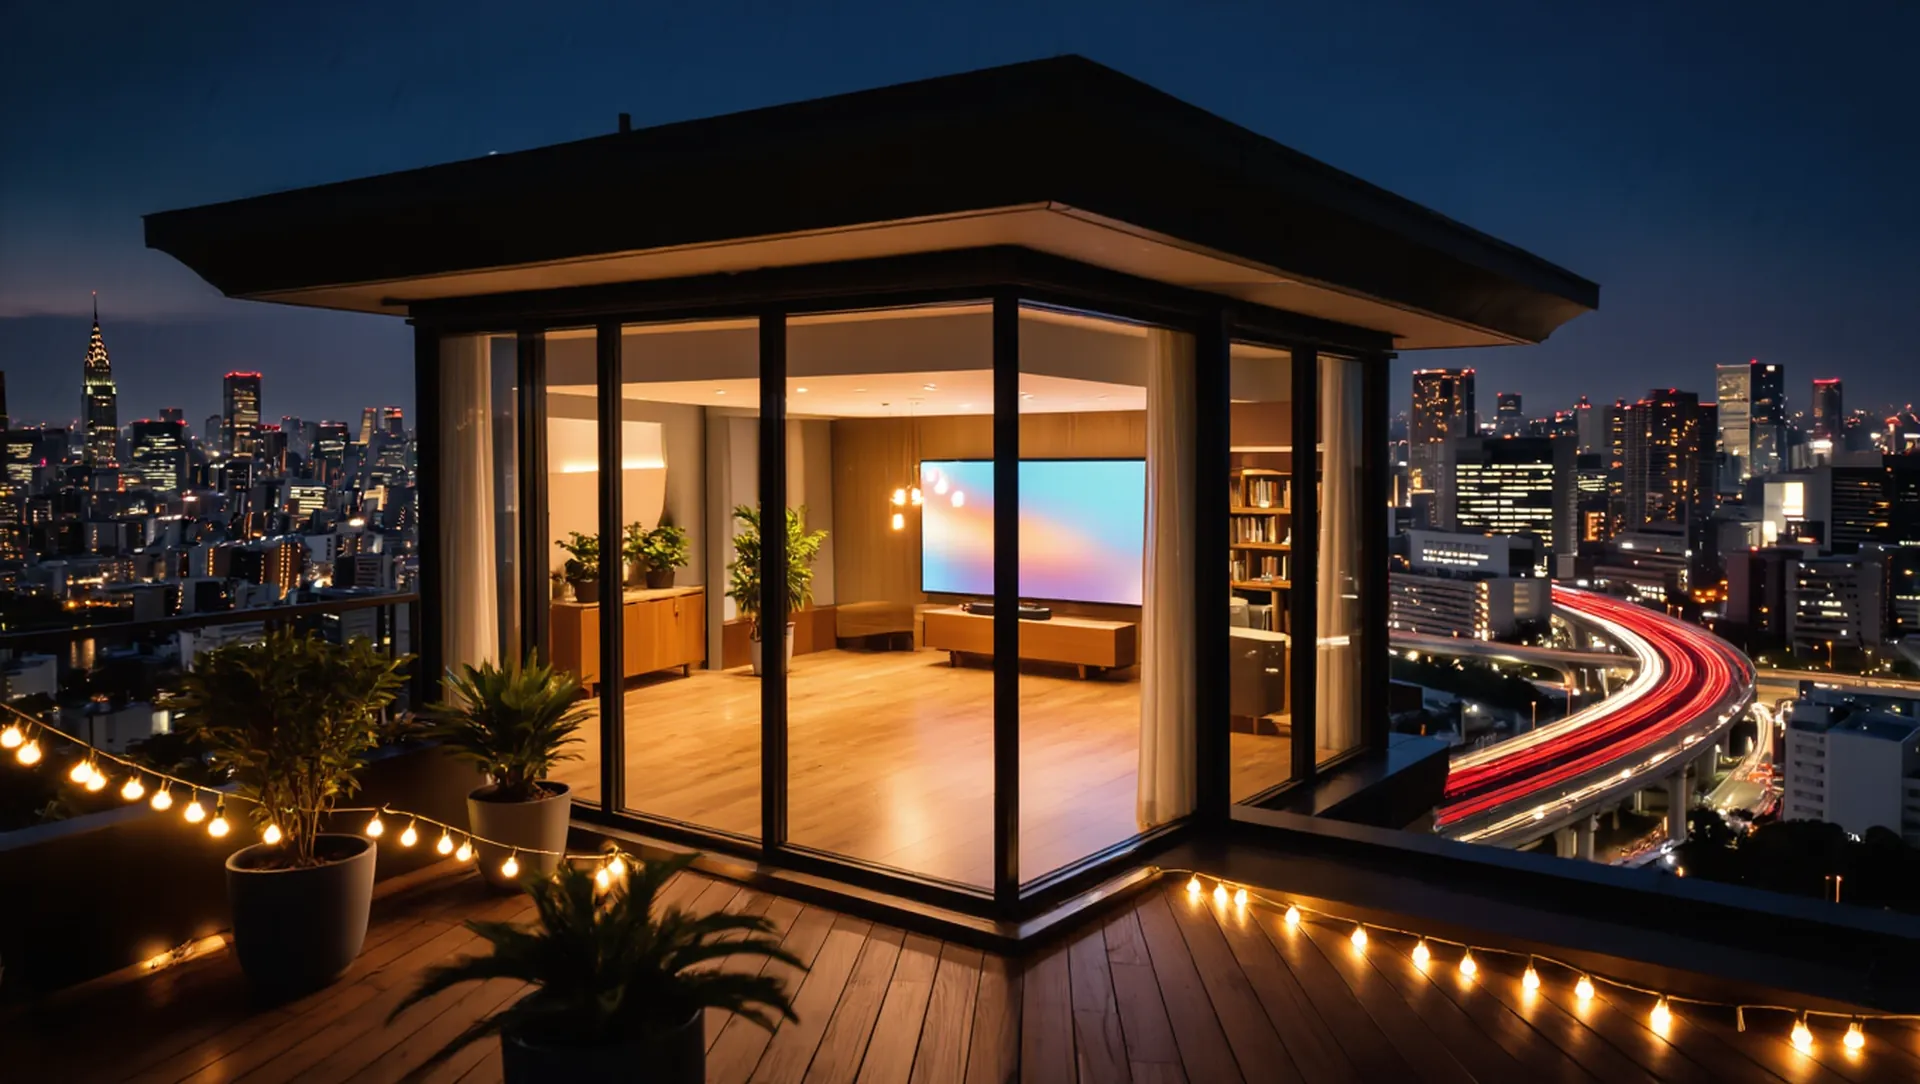
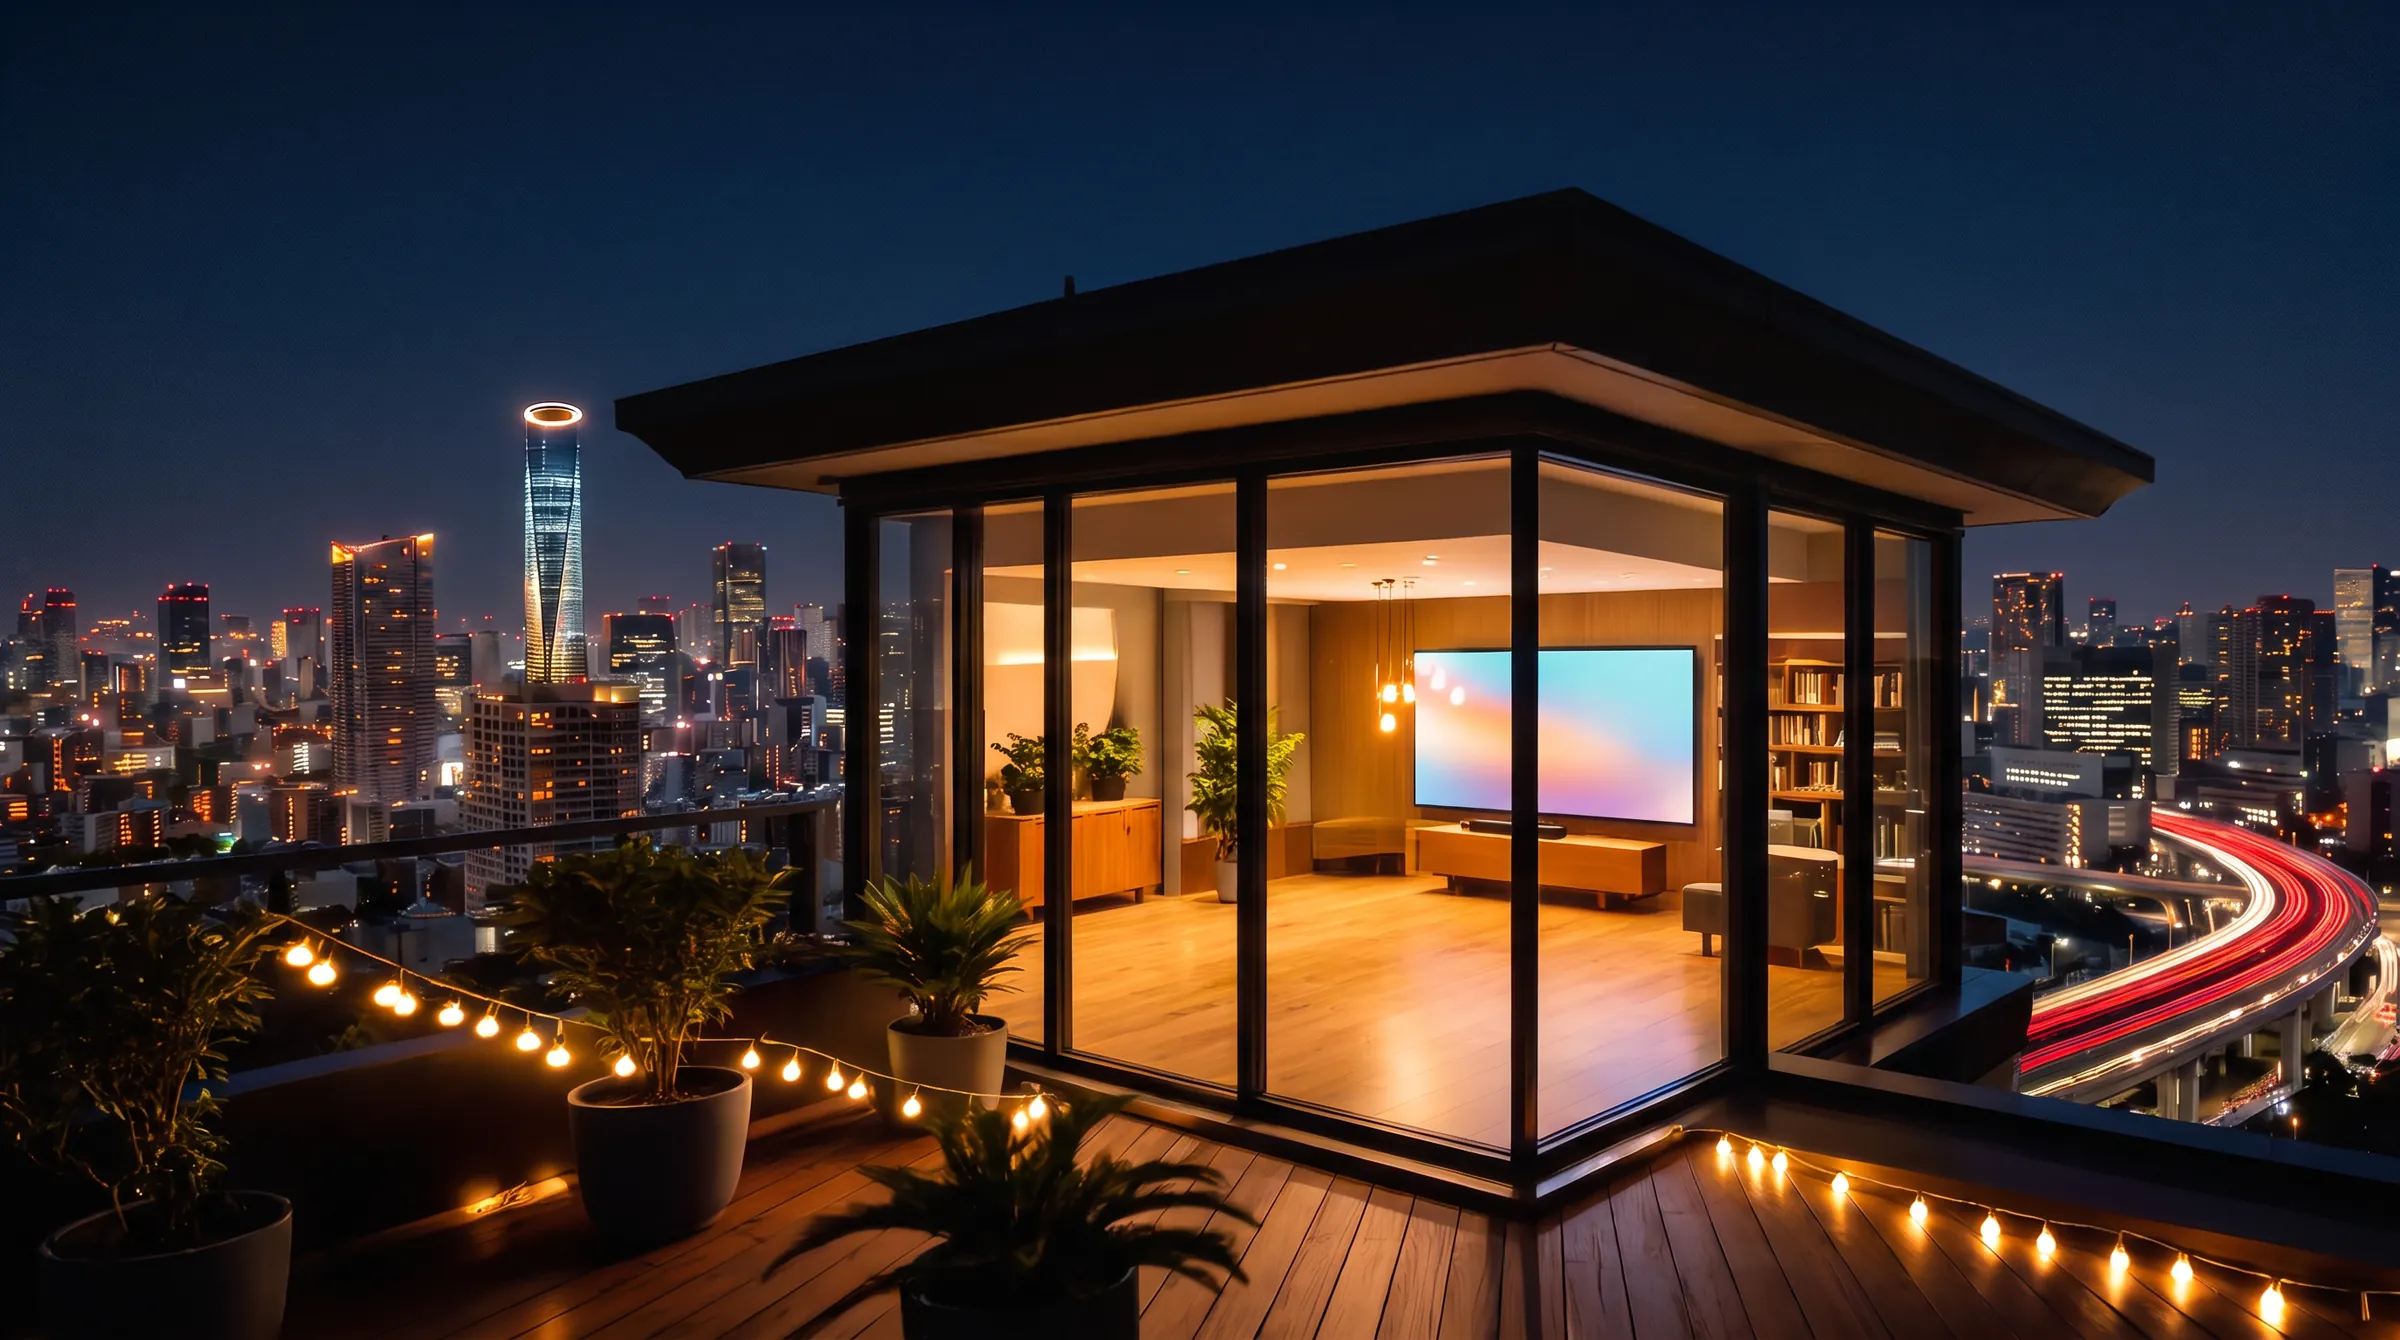
Final stills, depth maps, first two film clips; preview build
Claude-Session: https://claude.ai/code/session_014eSGUeKCTSbcgTyyrj1tNi

diff --git a/components/Nav.tsx b/components/Nav.tsx
@@ -8,7 +8,7 @@
 import { AnimatePresence, motion, useReducedMotion } from "motion/react";
 import { useEffect, useId, useRef, useState } from "react";
 import Link from "next/link";
-import { content } from "@/lib/content";
+import { asset, content, href } from "@/lib/content";
 import { BookCall } from "./BookCall";
 
 const SPRING = { type: "spring", stiffness: 420, damping: 34, mass: 0.8 } as const;
@@ -62,16 +62,16 @@ export function Nav() {
           }}
         >
           <span aria-hidden className="pointer-events-none absolute inset-x-10 top-0 h-px bg-gradient-to-r from-transparent via-white/30 to-transparent" />
-          <Link href="/" aria-label="Studio Innové, home" className="flex items-center rounded-full py-1 outline-none focus-visible:ring-2 focus-visible:ring-amber">
+          <Link href={href("/")} aria-label="Studio Innové, home" className="flex items-center rounded-full py-1 outline-none focus-visible:ring-2 focus-visible:ring-amber">
             {/* eslint-disable-next-line @next/next/no-img-element */}
-            <img src="/brand/wordmark.png" alt="Studio Innové" width={67} height={28} className="h-7 w-auto select-none" draggable={false} />
+            <img src={asset("/brand/wordmark.png")} alt="Studio Innové" width={67} height={28} className="h-7 w-auto select-none" draggable={false} />
           </Link>
 
           <ul className="hidden items-center gap-0.5 md:flex" onPointerLeave={() => setHovered(null)}>
             {links.map((l) => (
               <li key={l.href}>
                 <a
-                  href={l.href}
+                  href={href(l.href)}
                   onPointerEnter={(e) => e.pointerType === "mouse" && setHovered(l.href)}
                   onFocus={() => setHovered(l.href)}
                   onBlur={() => setHovered(null)}
@@ -119,7 +119,7 @@ export function Nav() {
               <ul className="flex flex-col">
                 {links.map((l) => (
                   <li key={l.href}>
-                    <a href={l.href} onClick={() => setOpen(false)} className="block rounded-2xl px-4 py-3.5 text-[17px] font-medium text-paper/90 active:bg-white/10">
+                    <a href={href(l.href)} onClick={() => setOpen(false)} className="block rounded-2xl px-4 py-3.5 text-[17px] font-medium text-paper/90 active:bg-white/10">
                       {l.label}
                     </a>
                   </li>

diff --git a/components/film/FilmStage.tsx b/components/film/FilmStage.tsx
@@ -2,7 +2,7 @@
 
 import Lenis from "lenis";
 import { useEffect, useRef, useState } from "react";
-import { content } from "@/lib/content";
+import { asset, content } from "@/lib/content";
 import { Soundscape } from "@/lib/sound";
 import { BookCall } from "../BookCall";
 import { GlassCard } from "../GlassCard";
@@ -175,7 +175,7 @@ export function FilmStage() {
 
     const loadedRef = { current: false };
 
-    fetch("/film/manifest.json")
+    fetch(asset("/film/manifest.json"))
       .then((r) => r.json())
       .then(async (m: Manifest) => {
         if (!alive) return;
@@ -247,10 +247,10 @@ export function FilmStage() {
       <div ref={stageRef} className="sticky top-0 h-svh w-full overflow-hidden bg-ink">
         {/* First paint: the golden-hour still, before any script runs */}
         <picture>
-          <source media="(max-width: 899px)" srcSet="/film/stills/s1-m.webp" />
+          <source media="(max-width: 899px)" srcSet={asset("/film/stills/s1-m.webp")} />
           {/* eslint-disable-next-line @next/next/no-img-element */}
           <img
-            src="/film/stills/s1-d.webp"
+            src={asset("/film/stills/s1-d.webp")}
             alt="A glass penthouse studio above a city at golden hour"
             fetchPriority="high"
             className="absolute inset-0 h-full w-full object-cover object-[60%_50%]"
@@ -400,7 +400,7 @@ export function FilmStage() {
               <circle cx="50" cy="50" r="46" fill="none" strokeWidth="1.5" pathLength={100} strokeDasharray="100" strokeDashoffset={100 - progress * 100} strokeLinecap="round" className="ring-fill" />
             </svg>
             {/* eslint-disable-next-line @next/next/no-img-element */}
-            <img src="/brand/wordmark.png" alt="" width={62} height={26} className="h-[26px] w-auto opacity-90" />
+            <img src={asset("/brand/wordmark.png")} alt="" width={62} height={26} className="h-[26px] w-auto opacity-90" />
           </div>
           <p className="mt-6 text-[11px] uppercase tracking-[0.3em] text-paper/45 tabular-nums">{Math.round(progress * 100)}%</p>
         </div>

diff --git a/components/Footer.tsx b/components/Footer.tsx
@@ -2,7 +2,7 @@
 
 import Link from "next/link";
 import { useRef } from "react";
-import { content } from "@/lib/content";
+import { content, href } from "@/lib/content";
 import { BookCall } from "./BookCall";
 
 /** Closing footer: a slow beam of light and a cursor glow pass behind a giant wordmark. */
@@ -33,10 +33,10 @@ export function Footer() {
           <p className="eyebrow mb-4">Studio</p>
           <ul className="space-y-2.5 text-[15px] text-paper/75">
             {nav.links.map((l) => (
-              <li key={l.href}><a href={l.href} className="transition-colors hover:text-paper">{l.label}</a></li>
+              <li key={l.href}><a href={href(l.href)} className="transition-colors hover:text-paper">{l.label}</a></li>
             ))}
-            <li><Link href="/web-app-development" className="transition-colors hover:text-paper">Web app development</Link></li>
-            <li><Link href="/mobile-app-development" className="transition-colors hover:text-paper">Mobile app development</Link></li>
+            <li><Link href={href("/web-app-development")} className="transition-colors hover:text-paper">Web app development</Link></li>
+            <li><Link href={href("/mobile-app-development")} className="transition-colors hover:text-paper">Mobile app development</Link></li>
           </ul>
         </div>
         <div>
@@ -51,7 +51,7 @@ export function Footer() {
 
       <div className="mx-auto mt-20 flex max-w-[1200px] flex-wrap items-center justify-between gap-4 border-t border-white/10 px-6 py-6 text-[13px] text-paper/45 sm:px-10">
         <span>© {studio.year} {studio.name}</span>
-        <Link href="/privacy" className="transition-colors hover:text-paper">{footer.privacy}</Link>
+        <Link href={href("/privacy")} className="transition-colors hover:text-paper">{footer.privacy}</Link>
       </div>
 
       <div aria-hidden className="pointer-events-none select-none overflow-hidden">

diff --git a/components/film/engine.ts b/components/film/engine.ts
@@ -1,8 +1,9 @@
 import { FOCUS, type ClipId, type StillId } from "./timeline";
+import { asset } from "@/lib/content";
 
 export type Manifest = {
   fps: number;
-  stills: Partial<Record<StillId, { d: string; m: string; depth?: string }>>;
+  stills: Partial<Record<StillId, { d: string; m?: string; depth?: string }>>;
   clips: Partial<Record<ClipId, { from: StillId; to: StillId; d?: { path: string; frames: number }; m?: { path: string; frames: number } }>>;
 };
 
@@ -168,7 +169,7 @@ export class FilmEngine {
       const s = this.manifest.stills[id];
       if (!s) return;
       try {
-        this.stills.set(id, await this.fetchImage(s[this.mode]));
+        this.stills.set(id, await this.fetchImage(asset(s[this.mode] ?? s.d)));
       } catch {}
       done++;
       this.onProgress?.(done / total);
@@ -179,7 +180,7 @@ export class FilmEngine {
     // depth maps are small; fetch quietly
     for (const id of ids) {
       const dp = this.manifest.stills[id]?.depth;
-      if (dp) this.fetchImage(dp).then((b) => this.depths.set(id, b)).catch(() => {});
+      if (dp) this.fetchImage(asset(dp)).then((b) => this.depths.set(id, b)).catch(() => {});
     }
   }
 
@@ -187,14 +188,19 @@ export class FilmEngine {
     return this.stills.has(id);
   }
 
+  private clipSet(clip: ClipId) {
+    const c = this.manifest.clips[clip];
+    return c?.[this.mode] ?? c?.d ?? c?.m;
+  }
+
   private frameUrl(clip: ClipId, i: number) {
-    const c = this.manifest.clips[clip]?.[this.mode];
+    const c = this.clipSet(clip);
     if (!c) return "";
-    return `${c.path}${String(i + 1).padStart(3, "0")}.webp`;
+    return asset(`${c.path}${String(i + 1).padStart(3, "0")}.webp`);
   }
 
   frames(clip: ClipId) {
-    return this.manifest.clips[clip]?.[this.mode]?.frames ?? 0;
+    return this.clipSet(clip)?.frames ?? 0;
   }
 
   /** Queue clip frames, nearest clips first, coarse-to-fine inside each clip. */

diff --git a/components/PageShell.tsx b/components/PageShell.tsx
@@ -1,6 +1,7 @@
 import type { ReactNode } from "react";
 import { Nav } from "./Nav";
 import { Footer } from "./Footer";
+import { asset } from "@/lib/content";
 
 /** Light, fast pages: one still from the film, then plain readable sections. */
 export function PageShell({ still, alt, eyebrow, title, intro, children }: { still: string; alt: string; eyebrow: string; title: string; intro: string; children: ReactNode }) {
@@ -9,9 +10,9 @@ export function PageShell({ still, alt, eyebrow, title, intro, children }: { sti
       <Nav />
       <header className="relative flex min-h-[78svh] items-end overflow-hidden">
         <picture>
-          <source media="(max-width: 899px)" srcSet={`/film/stills/${still}-m.webp`} />
+          <source media="(max-width: 899px)" srcSet={asset(`/film/stills/${still}-m.webp`)} />
           {/* eslint-disable-next-line @next/next/no-img-element */}
-          <img src={`/film/stills/${still}-d.webp`} alt={alt} fetchPriority="high" className="absolute inset-0 h-full w-full scale-[1.02] object-cover" />
+          <img src={asset(`/film/stills/${still}-d.webp`)} alt={alt} fetchPriority="high" className="absolute inset-0 h-full w-full scale-[1.02] object-cover" />
         </picture>
         <div aria-hidden className="absolute inset-0 bg-gradient-to-t from-ink via-ink/55 to-ink/10" />
         <div className="relative mx-auto w-full max-w-[1200px] px-6 pb-16 sm:px-10 md:pb-20">

diff --git a/app/layout.tsx b/app/layout.tsx
@@ -2,6 +2,7 @@ import type { Metadata, Viewport } from "next";
 import { Analytics } from "@vercel/analytics/next";
 import { content, SITE_URL } from "@/lib/content";
 import { CalWarmup } from "@/components/BookCall";
+import { GeistSans } from "geist/font/sans";
 import "./globals.css";
 
 export const metadata: Metadata = {
@@ -34,7 +35,7 @@ export const viewport: Viewport = {
 
 export default function RootLayout({ children }: { children: React.ReactNode }) {
   return (
-    <html lang="en">
+    <html lang="en" className={GeistSans.variable}>
       <head>
         <link rel="preconnect" href="https://api.fontshare.com" crossOrigin="" />
         <link rel="preconnect" href="https://cdn.fontshare.com" crossOrigin="" />

diff --git a/lib/content.ts b/lib/content.ts
@@ -8,3 +8,15 @@ export const SITE_URL = (
   (process.env.VERCEL_PROJECT_PRODUCTION_URL ? `https://${process.env.VERCEL_PROJECT_PRODUCTION_URL}` : "") ||
   "https://studio-innove.vercel.app"
 ).replace(/\/$/, "");
+
+/** Prefix for files in /public. "/" on the live site; "./" in the self-contained preview. */
+export const BASE = process.env.NEXT_PUBLIC_BASE || "/";
+export const asset = (path: string) => BASE + path.replace(/^\//, "");
+
+/** Internal links: absolute on the live site, relative in the preview. */
+export const href = (h: string) => {
+  if (BASE === "/") return h;
+  if (h === "/") return "./";
+  if (h.startsWith("/#")) return h.slice(1);
+  return h.replace(/^\//, "") + (h.includes("#") ? "" : "/");
+};

diff --git a/app/globals.css b/app/globals.css
@@ -7,7 +7,7 @@
   --color-mute: #a6a29b;
   --color-amber: #e8a15a;
   --color-amber-2: #f3b877;
-  --font-sans: "Satoshi", ui-sans-serif, system-ui, -apple-system, "Segoe UI", sans-serif;
+  --font-sans: "Satoshi", var(--font-geist-sans), ui-sans-serif, system-ui, -apple-system, "Segoe UI", sans-serif;
   --ease-out-strong: cubic-bezier(0.23, 1, 0.32, 1);
   --ease-in-out-strong: cubic-bezier(0.77, 0, 0.175, 1);
 }

diff --git a/app/sitemap.ts b/app/sitemap.ts
@@ -1,4 +1,5 @@
 import type { MetadataRoute } from "next";
+export const dynamic = "force-static";
 import { SITE_URL } from "@/lib/content";
 
 export default function sitemap(): MetadataRoute.Sitemap {

diff --git a/app/robots.ts b/app/robots.ts
@@ -1,4 +1,5 @@
 import type { MetadataRoute } from "next";
+export const dynamic = "force-static";
 import { SITE_URL } from "@/lib/content";
 
 export default function robots(): MetadataRoute.Robots {

diff --git a/scripts/film.py b/scripts/film.py
@@ -20,7 +20,7 @@ CLIPS = {  # clip -> (from still, to still)
     "c0": ("s1", "s1n"), "c1": ("s1n", "s2"), "c2": ("s2", "s3"), "c3": ("s3", "s4"),
     "c4": ("s4", "s5"), "c5": ("s5", "s6"), "c6": ("s6", "s1n"),
 }
-SIZES = {"d": 1920, "m": 1280}   # desktop, mobile widths
+SIZES = {"d": 1600, "m": 1080}   # desktop, mobile widths
 FPS = 12                          # frames are blended in the shader, so 12 fps scrubs smoothly
 
 
@@ -38,7 +38,7 @@ def main(src):
             continue
         im = Image.open(p)
         entry = {}
-        for k, w in SIZES.items():
+        for k, w in {"d": 2400, "m": 1280}.items():
             rel = f"stills/{s}-{k}.webp"
             os.makedirs(os.path.join(OUT, "stills"), exist_ok=True)
             save_webp(im, os.path.join(OUT, rel), w, 80 if k == "d" else 76)
@@ -58,7 +58,7 @@ def main(src):
             d = os.path.join(OUT, c, k)
             shutil.rmtree(d, ignore_errors=True)
             os.makedirs(d)
-            q = 72 if k == "d" else 68
+            q = 70 if k == "d" else 66
             subprocess.run(["ffmpeg", "-loglevel", "error", "-y", "-i", p,
                             "-vf", f"fps={FPS},scale={w}:-2:flags=lanczos",
                             "-c:v", "libwebp", "-quality", str(q), "-compression_level", "6",
